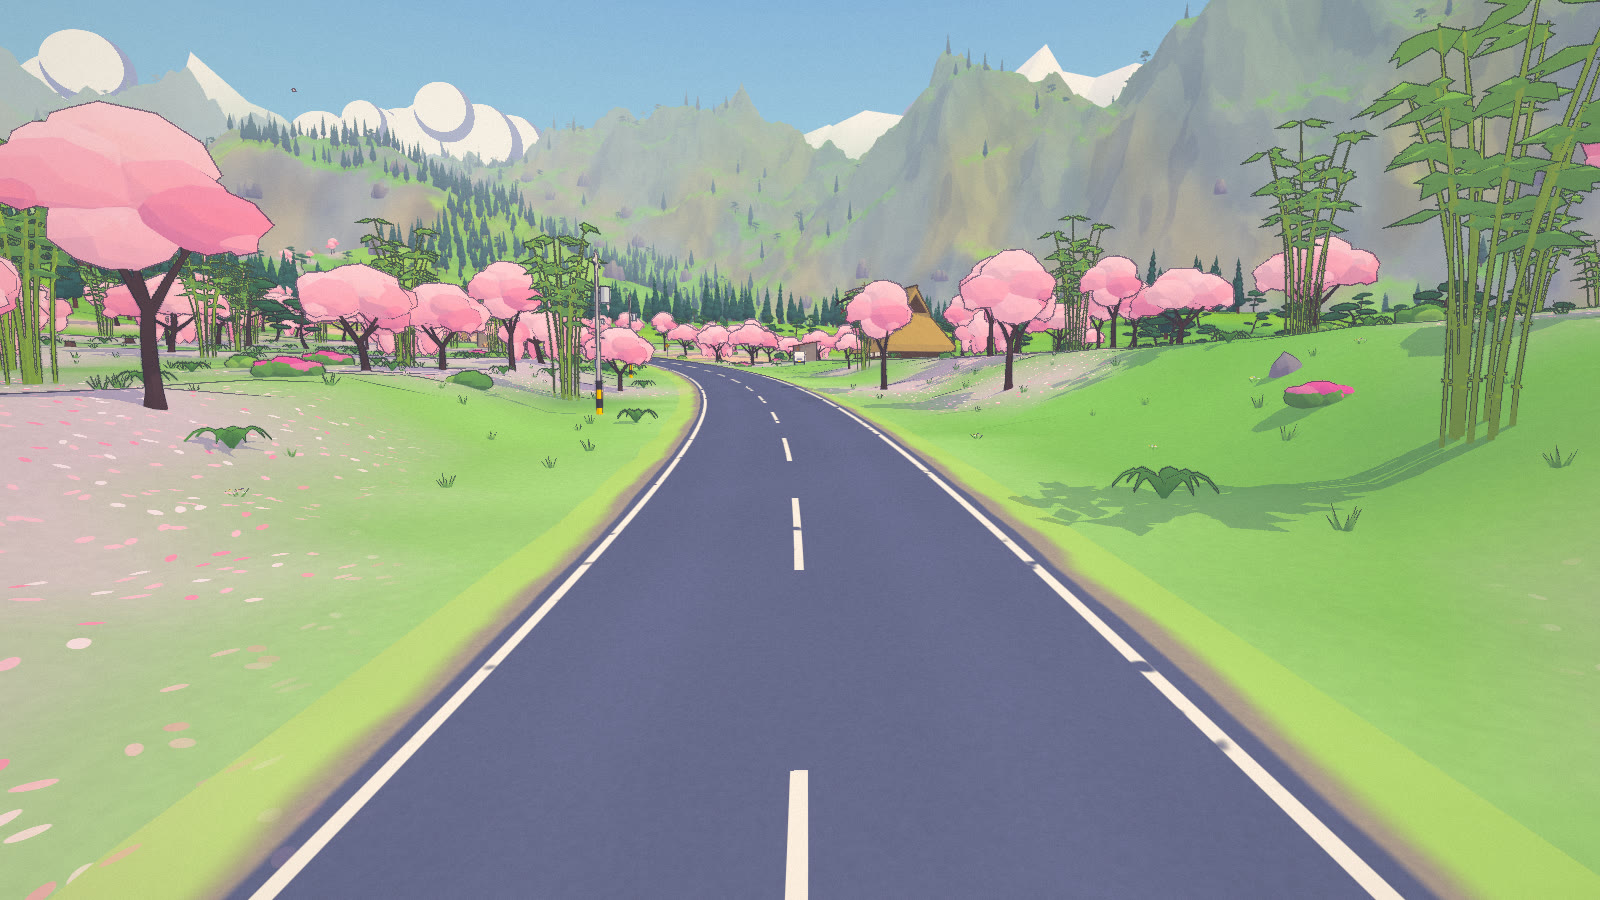
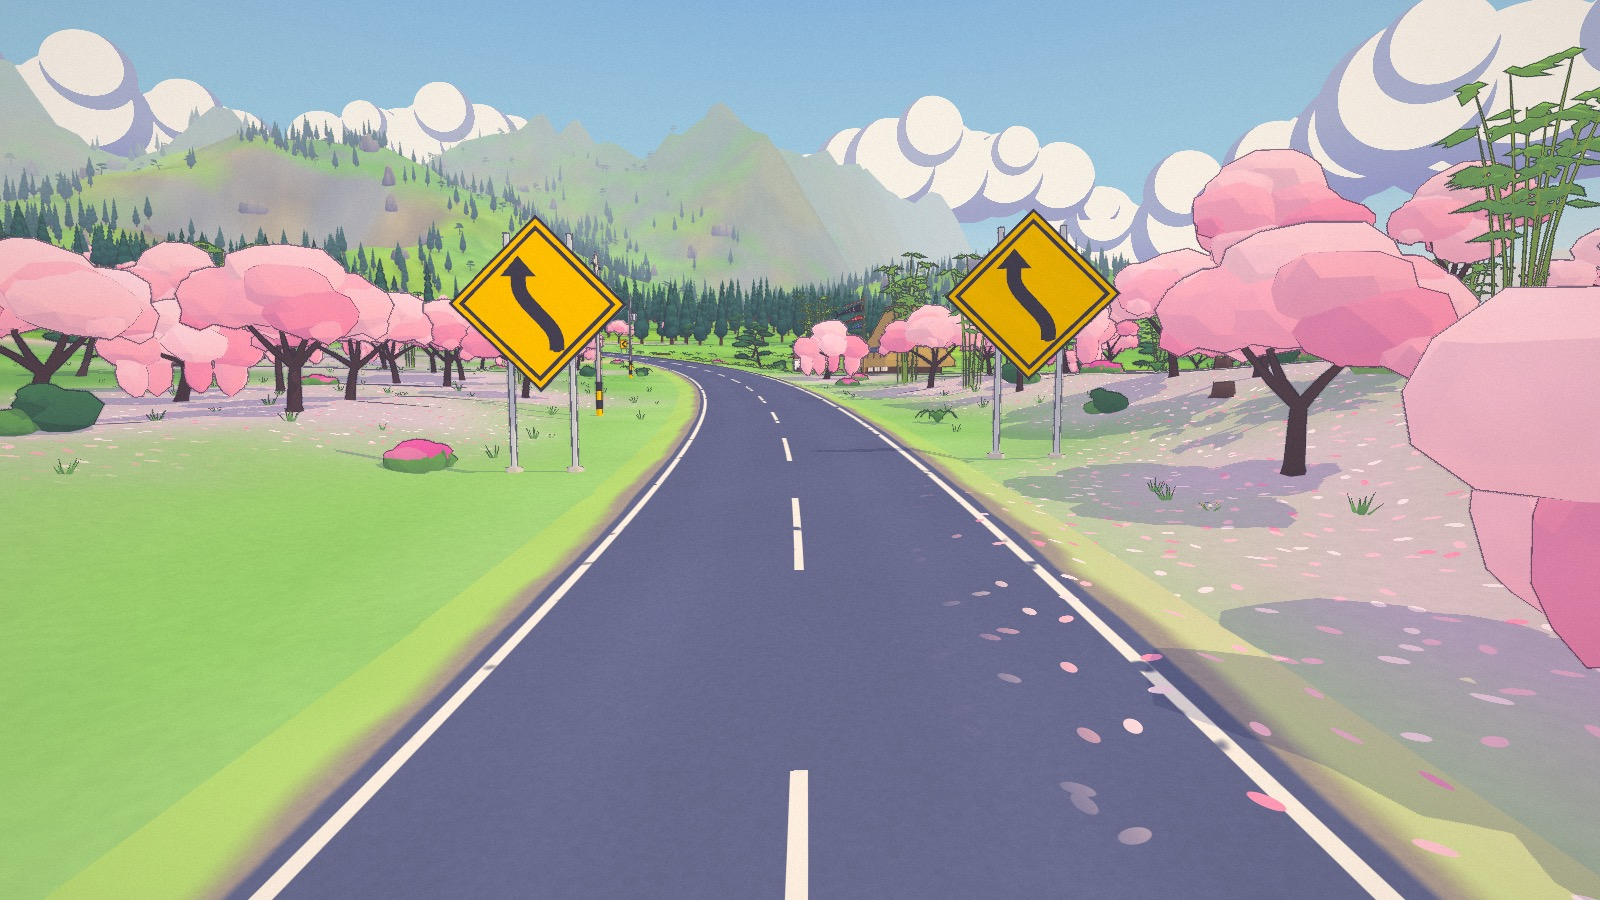
Docs for episode 3 at the final merge: README (one world, corner signs and rails, downhill camera, garage workshop, spectators, replays; verification re-run: physics 129/129, flows 31 checks, campaign 66, 186 missed corners without a fall, FPS per stage), PHYSICS results table 129/129; renders of th

diff --git a/README.md b/README.md
@@ -1,9 +1,9 @@
 # Sakura Rally 桜ラリー
 
-A cel-shaded low-poly rally game for Summer Engine and Godot 4.7. Two stages and a liaison road
-drawn like an anime background: flat cel bands, shadows tinted violet instead of darkened, thin
-ink lines, painted clouds and aerial haze. The look follows yamazakura, an earlier three.js
-sakura bike ride by the same author.
+A cel-shaded low-poly rally game for Summer Engine and Godot 4.7: two stages joined by a road
+through the seasons, in one world drawn like an anime background. Flat cel bands, shadows
+tinted violet instead of darkened, thin ink lines, painted clouds and aerial haze. The look
+follows yamazakura, an earlier three.js sakura bike ride by the same author.
 
 Claude Opus 5.5 built it from one prompt in about five hours: the code, the car and prop models
 (Blender scripts), both maps, the synthesised engine audio, the UI and the trailer edit. It split
@@ -11,10 +11,14 @@ the work across parallel sub-agents for the car, props, physics, audio and UI, w
 through [docs/CONTRACTS.md](docs/CONTRACTS.md). A second round, from the author's playtest
 notes, added the campaign with a drivable liaison road, a second car, the garage and a physics
 rework aimed at fun rather than realism. The next playtest made crashes forgiving, turned the
-roadside dressing soft and taught the title flyover car to drift.
+roadside dressing soft and taught the title flyover car to drift. The third joined the stages
+and the road into one world driven without loading between them. It also moved the garage into
+a workshop by the road, added big corner signs and guardrails, made the chase camera see past
+the car downhill, let spectators tumble when hit, and records every drive for review.
 
 ![Hanami Pass from above](docs/renders/hanami_aerial.jpg)
 ![Momiji Valley from above](docs/renders/momiji_aerial.jpg)
+![The road between the stages from above](docs/renders/liaison_aerial.jpg)
 
 ## Play
 
@@ -42,35 +46,47 @@ engine at 4600 rpm, and at GO the clutch drops into first.
 
 ## Modes and maps
 
-- **Campaign, The Seasons Rally**: SS1 Hanami Pass in spring, then L1 Natsu Road, an untimed
-  summer liaison you drive yourself to the next time control, then SS2 Momiji Valley in autumn.
-  A journey map opens each leg; the finale is a rally classification against six rivals. Quit
-  at any point and the title offers "Continue" at the start of that leg.
-- **Time Attack**, a page of cards that show each road from above with its route:
+- **Campaign, The Seasons Rally**: one continuous drive with no loading between legs. SS1 is
+  Hanami Pass in spring. At the finish the car rolls to a stop on the loop, the results say the
+  stage is complete, and a road sign beside them points on to SS2. Continue opens the barrier
+  across the branch road in front of you, and you drive on from where you stopped. The road is
+  untimed, and it runs from the sakura through summer into the autumn maples. At Momiji Valley's
+  grid the car comes to rest, the SS2 start card plays on the spot, and the countdown starts.
+  The finale is a rally classification against six rivals. Quit at any point and the title
+  offers "Continue" at that leg: SS1's grid, the road on from Hanami's finish, or SS2's grid.
+- **Time Attack**, a page of cards that show each stage from above with its route:
   - **Time Trial**: one lap through checkpoints, with splits against your best, a medal and a
-    saved record.
-  - **Free Roam**: no timer, on any of the three roads. R puts you back on the route.
+    saved record. The barriers to the branch road stay closed.
+  - **Free Roam**: no timer and every barrier open, so the whole world is yours. R puts you
+    back on the nearest road.
 
-| Map | Setting | Gold / Silver / Bronze |
+| Stage | Setting | Gold / Silver / Bronze |
 |---|---|---|
 | Hanami Pass 花見峠 | spring noon, tarmac and gravel under the blossom | 2:04.5 / 2:18.0 / 2:41.0 |
 | Momiji Valley 紅葉谷 | autumn golden hour, loose dirt through the maples | 1:49.5 / 2:01.5 / 2:21.5 |
 
-Natsu Road 夏道 is the liaison between the two stages, a summer-afternoon road rather than a
-lap. It is 2.2 km of open tarmac from a car park on Hanami Pass, down past terraced rice
-paddies, over a stone bridge into a village holding its summer festival, along the forest edge
-to the Momiji Valley time control, a service park where the car stops in the arrival zone.
+The road between the stages is 2 km of open tarmac on a summer afternoon: it forks off the
+Hanami loop past the finish, passes terraced rice paddies, crosses a stone bridge into a village
+holding its summer festival and joins the Momiji loop before its grid. The seasons blend along
+it, in the trees, the grass, the light, the sky particles (petals, summer fluff, falling
+leaves) and the ambience. The world, its layout and its build are described in
+[docs/WORLD.md](docs/WORLD.md).
 
-![Natsu Road from above](docs/renders/natsu_aerial.jpg)
+Every corner that needs braking is announced by a big yellow diamond well before the braking
+point, with chevron boards on the outside through the corner. Guardrails run wherever the road
+edge drops, so a missed corner ends in a scrape along the rail instead of a fall.
 
 The roadside is soft, as in Forza Horizon. Cones, tape, flags, banners, fences, benches, road
 signs, tyre stacks and hay bales break when you drive through them and cost 1–12 % of your
-speed. Checkpoints are fabric banners on soft uprights that billow as you pass. Trees, rocks,
-walls, guardrails and buildings stay solid. Hitting them scrapes the car along the wall rather
-than spinning it round, and nothing launches it. A restart or a reset (R) puts the course back
-together.
+speed. Checkpoints are fabric banners on soft uprights that billow as you pass. Spectators you
+hit tumble over, lie a moment and get back up. Trees, rocks, walls, guardrails and buildings
+stay solid. Hitting them scrapes the car along the wall rather than spinning it round, and
+nothing launches it. A restart or a reset (R) puts the course back together.
 
-The garage has two cars and five liveries, painted onto the parked car as you pick them:
+The garage is a service workshop beside the Hanami start straight. Every car is in a strip at
+the bottom of the screen: pick another and the parked car drives off down the road while the
+new one comes up the lane and parks. There are two cars and five liveries, painted onto the
+parked car as you pick them:
 
 | Car | Drivetrain | Character |
 |---|---|---|
@@ -91,20 +107,31 @@ The trailer is rendered offline from the game itself: `tools/video/demo.gd` driv
 under Movie Maker, and `tools/video/cut_demo.py` cuts the footage on the beat of the drive theme.
 `tools/video/render_demo.sh` does both, offscreen and muted (about 11 min for the footage under
 `nice`, 4 min for the cut; ~11 GB of footage in `/tmp`), and writes
-`/tmp/sakura_demo/sakura_rally_demo.mp4`. The run goes title → garage (a livery change) → Time
-Attack → a showoff lap of Hanami under directed cuts (a fabric gate, the hay bales on the tarmac
-hairpin) → results → Next map → Momiji → pause → back to the title.
+`/tmp/sakura_demo/sakura_rally_demo.mp4`. The run goes title → garage at the workshop (a livery
+change) → Time Attack → a showoff lap of Hanami under directed cuts (a fabric gate, the hay bales
+on the tarmac hairpin) → results → Next map → Momiji → pause → back to the title.
+
+## Replays
+
+Every drive you control (a stage, the road between stages, free roam) is recorded to disk as
+inputs and car state, not video: `user://replays/`, on macOS with Godot
+`~/Library/Application Support/Godot/app_userdata/Sakura Rally/replays/`.
+`tools/replay/review.gd` lists and summarises them (where the time went, where the car left the
+road, resets, hesitations) and renders what the driver saw at any moment, offscreen. Details are
+in [docs/REPLAYS.md](docs/REPLAYS.md).
 
 ## How it is built
 
 | Part | Source | What it is |
 |---|---|---|
 | Cars | `tools/blender/build_car.py`, `build_car_hayate.py` → `assets/models/car/` | Low-poly rally car and coupe built by scripts. Tyre and rim are one object per wheel, spinning and steering; calipers steer without spinning |
-| Physics | `scripts/vehicle/`, [docs/PHYSICS.md](docs/PHYSICS.md) | Custom raycast car on a `RigidBody3D` (Jolt, 120 Hz): suspension, a combined-slip tyre model per surface, 6-speed gearbox, turbo, AWD with limited-slip couplings or RWD, and assists tuned for fun: stability that lets deliberate drifts through, strong brakes, sharp turn-in. Crashes are arcade: walls take a share of speed that depends on the impact angle and ease the nose along them, poles deflect the car, and a short guard caps yaw, roll and climb after any hit |
-| Look | `shaders/`, `scripts/fx/` | Toon ramps with violet shade bands, depth-based ink lines, anime colour grade, painted sky, petals, low-poly dust |
-| Maps | `tools/mapgen/` → `assets/maps/` | Python map compiler: terrain, closed (stage) or open (liaison) road spline, surfaces, checkpoints, instances from an 86-prop kit (`tools/blender/build_props.py`), and a road corridor kept clear of rigid props. At runtime `scripts/world/soft_course.gd` tests the soft dressing against each car outside the solver, with pooled debris and fabric checkpoint gates |
-| Audio | `tools/audio/`, [docs/AUDIO.md](docs/AUDIO.md) | Synthesised engine loops (8 on load, 8 off load), turbo whistle and blow-off, dog-box gearbox whine, tyre sounds per surface, UI and stingers. Music is ElevenLabs Music via fal; ambience is fal sound-effect beds with synthesised birds and crickets |
-| UI | `scripts/ui/`, [docs/UI.md](docs/UI.md) | Title hub over a flyover whose car drifts the corners, Time Attack cards with top-down maps, garage, journey map, liaison HUD, settings, ink transitions, countdown, HUD, results, rally classification and pause, all built in code |
+| Physics | `scripts/vehicle/`, [docs/PHYSICS.md](docs/PHYSICS.md) | Custom raycast car on a `RigidBody3D` (Jolt, 120 Hz): suspension, a combined-slip tyre model per surface, 6-speed gearbox, turbo, AWD with limited-slip couplings or RWD, and assists tuned for fun: stability that lets deliberate drifts through, strong brakes, sharp turn-in. Crashes are arcade: walls take a share of speed that depends on the impact angle and ease the nose along them, poles deflect the car, and a short guard caps yaw, roll and climb after any hit. Scripted spawns place the car at rest on its springs, so nothing drops |
+| Cameras | `scripts/camera/` | Chase (downhill it rises and pitches with the slope so the road shows past the car), far chase, hood and bumper; the cinematic camera for the title flyover, the garage orbit, the car switch, the gate opening and the finale |
+| Look | `shaders/`, `scripts/fx/` | Toon ramps with violet shade bands, depth-based ink lines, anime colour grade, painted sky, season blending across the world (grade, light, sky particles, litter), low-poly dust |
+| World | `tools/mapgen/` → `assets/maps/world/`, [docs/WORLD.md](docs/WORLD.md) | Python compiler for the one world: terrain with one mountain rim, two stage loops and the branch road joined at junctions, routes, gates, a season grid, corner signs and guardrails computed from each road, and instances from a 104-prop kit (`tools/blender/`) with a road corridor kept clear of rigid props. At runtime `scripts/world/map_world.gd` loads it once; `soft_course.gd` and `crowd.gd` test the soft dressing and the spectators against each car outside the solver, with pooled debris and fabric checkpoint gates |
+| Audio | `tools/audio/`, [docs/AUDIO.md](docs/AUDIO.md) | Synthesised engine loops (8 on load, 8 off load), turbo whistle and blow-off, dog-box gearbox whine, tyre sounds per surface, UI and stingers. Music is ElevenLabs Music via fal; ambience is fal sound-effect beds with synthesised birds and crickets, mixed by season |
+| UI | `scripts/ui/`, [docs/UI.md](docs/UI.md) | Title hub over a flyover whose car drifts the corners, Time Attack cards with top-down maps, garage with the car strip, road-sign HUD between stages, arrival card, settings, ink transitions, countdown, HUD, results, rally classification and pause, all built in code |
+| Replays | `scripts/autoload/replays.gd`, `tools/replay/`, [docs/REPLAYS.md](docs/REPLAYS.md) | Input and state recording of every drive, with a review tool |
 
 Shared conventions and the runtime APIs: [docs/CONTRACTS.md](docs/CONTRACTS.md). Rebuild commands:
 
@@ -123,24 +150,34 @@ Latest results, 2026-09-26, M1 Max, `S=/Applications/Summer.app/Contents/MacOS/S
 timeout 2400 $S --headless --disable-crash-handler --fixed-fps 120 --path . -s res://tools/physics/run_tests.gd
 timeout 400 $S --headless --disable-crash-handler --path . -s res://tools/game/flows.gd -- map=hanami
 timeout 900 $S --headless --disable-crash-handler --path . -s res://tools/game/flows.gd -- flow=campaign speed=3
-timeout 400 $S --headless --disable-crash-handler --path . -s res://tools/game/softcourse_probe.gd -- map=natsu
+timeout 400 $S --headless --disable-crash-handler --path . -s res://tools/game/softcourse_probe.gd -- map=liaison
+timeout 1800 $S --headless --disable-crash-handler --fixed-fps 60 --path . -s res://tools/physics/flyoff_probe.gd -- map=momiji
 ```
 
-- Physics suite, both cars: 120/120 passed. Sakura does 0–100 km/h in 3.5 s, stops from
+- Physics suite, both cars: 129/129 passed. Sakura does 0–100 km/h in 3.5 s, stops from
   100 km/h in 27 m, tops out at 189 km/h and holds 1.19 g on tarmac and 0.93 g on gravel;
   Hayate does 0–100 km/h in 5.0 s. Walls hit at 10°, 25° and 45°, at 90 and 130 km/h, cost
-  5–6 %, 18 % and 41 % of the speed, with no spin and no air. Every row is in
+  5–6 %, 18–19 % and 41–44 % of the speed, with no spin and no air. Both cars drive every route
+  of the world with the autopilot and with the keyboard bot, the road from Hanami's finish to
+  Momiji's grid included, and a closed gate stops a car driven at it at 60 km/h. Every row is in
   [docs/PHYSICS.md](docs/PHYSICS.md).
-- Game flows on both stages (free roam, pause and resume, reset, restart during the countdown,
-  launch, camera cycling, all three quality presets): 0 failures.
-- The campaign end to end, the autopilot driving both stages and the liaison through the results,
-  the arrival, the finale and the end card: 46 checks, 0 failures.
+- Game flows (free roam over every road of the world, pause and resume, reset, restart during
+  the countdown, launch, camera cycling, all three quality presets, a Time Trial start on each
+  stage): 31 checks, 0 failures.
+- The campaign in one continuous drive, the autopilot at the wheel from SS1 along the road to
+  SS2, then the classification, the end card and a save resumed at each leg: 66 checks,
+  0 failures. Nothing loads and nothing covers the screen between SS1 and SS2.
+- Missed corners: at each of the 31 signed corners Sakura stops steering at turn-in or halfway
+  to the apex, at up to 1.2 times its approach speed, and coasts on. In 186 runs it never fell
+  off: a rail kept it on the road 93 times, it stayed on the road by itself 6 times, and it came
+  to rest on the ground beside the road 87 times.
 - Soft course probes on all three roads, with both cars: 0 failures.
-- Crashing through the roadside does not cost frames: offscreen at 1600×900, frames with the car
-  against rails and trees take 8.3 ms at the median and under 10 ms at p95, and the first smash
-  of a session adds no hitch.
-- Median FPS offscreen at 1600×900, low / medium / high: Hanami 120 / 115 / 96, Momiji
-  113 / 87 / 77.
+- Crashing through the roadside does not cost frames: offscreen at 1600×900 on Hanami, the
+  frames in the second after each of 86 smashes take 8.3 ms at the median (the display's
+  120 Hz) and 15 ms at worst, the first smash of each kind adds no hitch, and no shader
+  compiles during the drive.
+- Median FPS offscreen at 1600×900, low / medium / high, with the whole world loaded: Hanami
+  120 / 120 / 120 (the display's cap), Momiji 120 / 120 / 98.
 
 ## License
 

diff --git a/docs/PHYSICS.md b/docs/PHYSICS.md
@@ -556,10 +556,10 @@ finish stop through the opened gates to Momiji's grid), prints the medal times t
 laps imply, and checks the closed-road gates: a car driven at a closed gate at 60 km/h is stopped
 by it, and drives through once it is open.
 
-Latest results (2026-09-26, Apple M1 Max, headless, both cars): **120/120 PASS**.
+Latest results (2026-09-26, Apple M1 Max, headless, both cars): **129/129 PASS**.
 
 | Test | Result | Target | |
-| --- | --- | --- | --- |
+|---|---|---|---|
 | sakura: 0-100 km/h tarmac | 3.54 s | 3.3-3.9 s | PASS |
 | sakura: 0-60 km/h tarmac | 1.87 s | <= 2.0 s | PASS |
 | sakura: 0-100 km/h gravel | 3.85 s | 3.8-4.6 s | PASS |
@@ -613,7 +613,7 @@ Latest results (2026-09-26, Apple M1 Max, headless, both cars): **120/120 PASS**
 | sakura: autopilot laps (3 flying) | 67.2, 64.7, 64.7, 64.7 s | 3 laps | PASS |
 | sakura: autopilot max line error | 1.06 m, 0 ticks off | wheels on road | PASS |
 | sakura: autopilot crashes | 0 impacts > 0.25 | 0 | PASS |
-| sakura: physics cost per tick (car) | 205 us avg, 3821 us max | < 400 us avg | PASS |
+| sakura: physics cost per tick (car) | 215 us avg, 10916 us max | < 400 us avg | PASS |
 | sakura: soak 309 s (loop, jumps, wall, bumps, banking) | NaN=false vmax=44 m/s wmax=2.9 rad/s | no NaN, v<70, w<15 | PASS |
 | sakura: soak events | 21 impacts (3 hard), 6 landings | signals fire | PASS |
 | hayate: 0-100 km/h tarmac | 4.99 s | 4.3-5.2 s | PASS |
@@ -669,17 +669,26 @@ Latest results (2026-09-26, Apple M1 Max, headless, both cars): **120/120 PASS**
 | hayate: autopilot laps (3 flying) | 69.9, 66.6, 66.6, 66.6 s | 3 laps | PASS |
 | hayate: autopilot max line error | 0.77 m, 0 ticks off | wheels on road | PASS |
 | hayate: autopilot crashes | 0 impacts > 0.25 | 0 | PASS |
-| hayate: physics cost per tick (car) | 209 us avg, 7542 us max | < 400 us avg | PASS |
+| hayate: physics cost per tick (car) | 222 us avg, 52008 us max | < 400 us avg | PASS |
 | hayate: soak 309 s (loop, jumps, wall, bumps, banking) | NaN=false vmax=40 m/s wmax=4.8 rad/s | no NaN, v<70, w<15 | PASS |
 | hayate: soak events | 21 impacts (6 hard), 6 landings | signals fire | PASS |
-| sakura: hanami analog lap | 112.83 s, 0 resets, 0 hard, off 0.0 s | clean | PASS |
-| sakura: hanami keyboard-bot lap | 114.07 s (x1.011), 0 resets, 0 hard, slip 10° | clean, slip < 25°, <= x1.12 | PASS |
-| hayate: hanami analog lap | 118.30 s, 0 resets, 0 hard, off 0.0 s | clean | PASS |
-| hayate: hanami keyboard-bot lap | 119.15 s (x1.007), 0 resets, 0 hard, slip 5° | clean, slip < 25°, <= x1.12 | PASS |
-| sakura: momiji analog lap | 99.53 s, 0 resets, 0 hard, off 0.0 s | clean | PASS |
-| sakura: momiji keyboard-bot lap | 100.79 s (x1.013), 0 resets, 0 hard, slip 9° | clean, slip < 25°, <= x1.12 | PASS |
-| hayate: momiji analog lap | 104.09 s, 0 resets, 0 hard, off 0.0 s | clean | PASS |
-| hayate: momiji keyboard-bot lap | 105.28 s (x1.011), 0 resets, 0 hard, slip 7° | clean, slip < 25°, <= x1.12 | PASS |
+| world build | 2173 ms | loads | PASS |
+| sakura: hanami analog lap | 112.84 s, 0 resets, 0 hard, off 0.0 s | clean | PASS |
+| sakura: hanami keyboard-bot lap | 114.02 s (x1.010), 0 resets, 0 hard, slip 7° | clean, slip < 25°, <= x1.12 | PASS |
+| hayate: hanami analog lap | 118.29 s, 0 resets, 0 hard, off 0.0 s | clean | PASS |
+| hayate: hanami keyboard-bot lap | 119.43 s (x1.010), 0 resets, 0 hard, slip 8° | clean, slip < 25°, <= x1.12 | PASS |
+| sakura: momiji analog lap | 99.56 s, 0 resets, 0 hard, off 0.0 s | clean | PASS |
+| sakura: momiji keyboard-bot lap | 100.81 s (x1.013), 0 resets, 0 hard, slip 7° | clean, slip < 25°, <= x1.12 | PASS |
+| hayate: momiji analog lap | 104.08 s, 0 resets, 0 hard, off 0.0 s | clean | PASS |
+| hayate: momiji keyboard-bot lap | 105.20 s (x1.011), 0 resets, 0 hard, slip 8° | clean, slip < 25°, <= x1.12 | PASS |
+| sakura: liaison analog run | 54.68 s, 0 resets, 0 hard, off 0.0 s | clean | PASS |
+| sakura: liaison keyboard-bot run | 55.14 s (x1.008), 0 resets, 0 hard, slip 5° | clean, slip < 25°, <= x1.12 | PASS |
+| hayate: liaison analog run | 57.41 s, 0 resets, 0 hard, off 0.0 s | clean | PASS |
+| hayate: liaison keyboard-bot run | 57.97 s (x1.010), 0 resets, 0 hard, slip 5° | clean, slip < 25°, <= x1.12 | PASS |
+| sakura: gate hanami_branch closed | stopped, 60 km/h at the gate, reached -2.4 m, hardest hit 2.00 | stops the car | PASS |
+| sakura: gate hanami_branch open | through, 60 km/h at the gate, reached +40.9 m, hardest hit 0.00 | drives through | PASS |
+| sakura: gate momiji_branch closed | stopped, 60 km/h at the gate, reached -2.4 m, hardest hit 2.00 | stops the car | PASS |
+| sakura: gate momiji_branch open | through, 60 km/h at the gate, reached +41.2 m, hardest hit 0.00 | drives through | PASS |
 
 The "max" tick cost is a scheduler outlier (other engines were running in parallel); the average
 is the budget figure.
